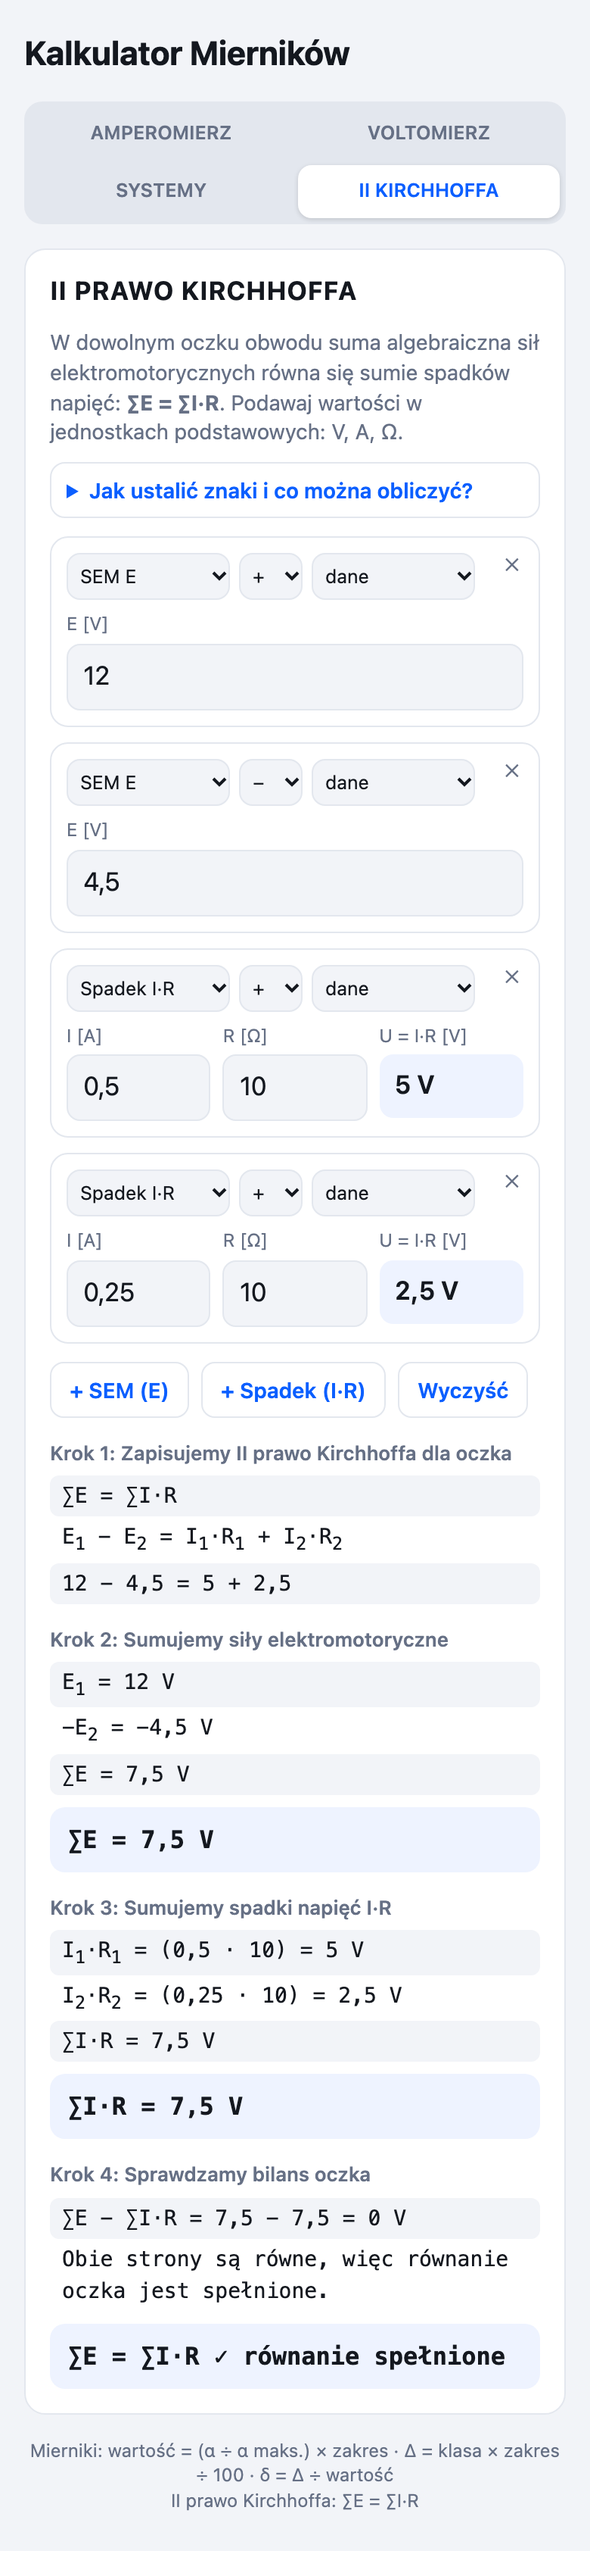
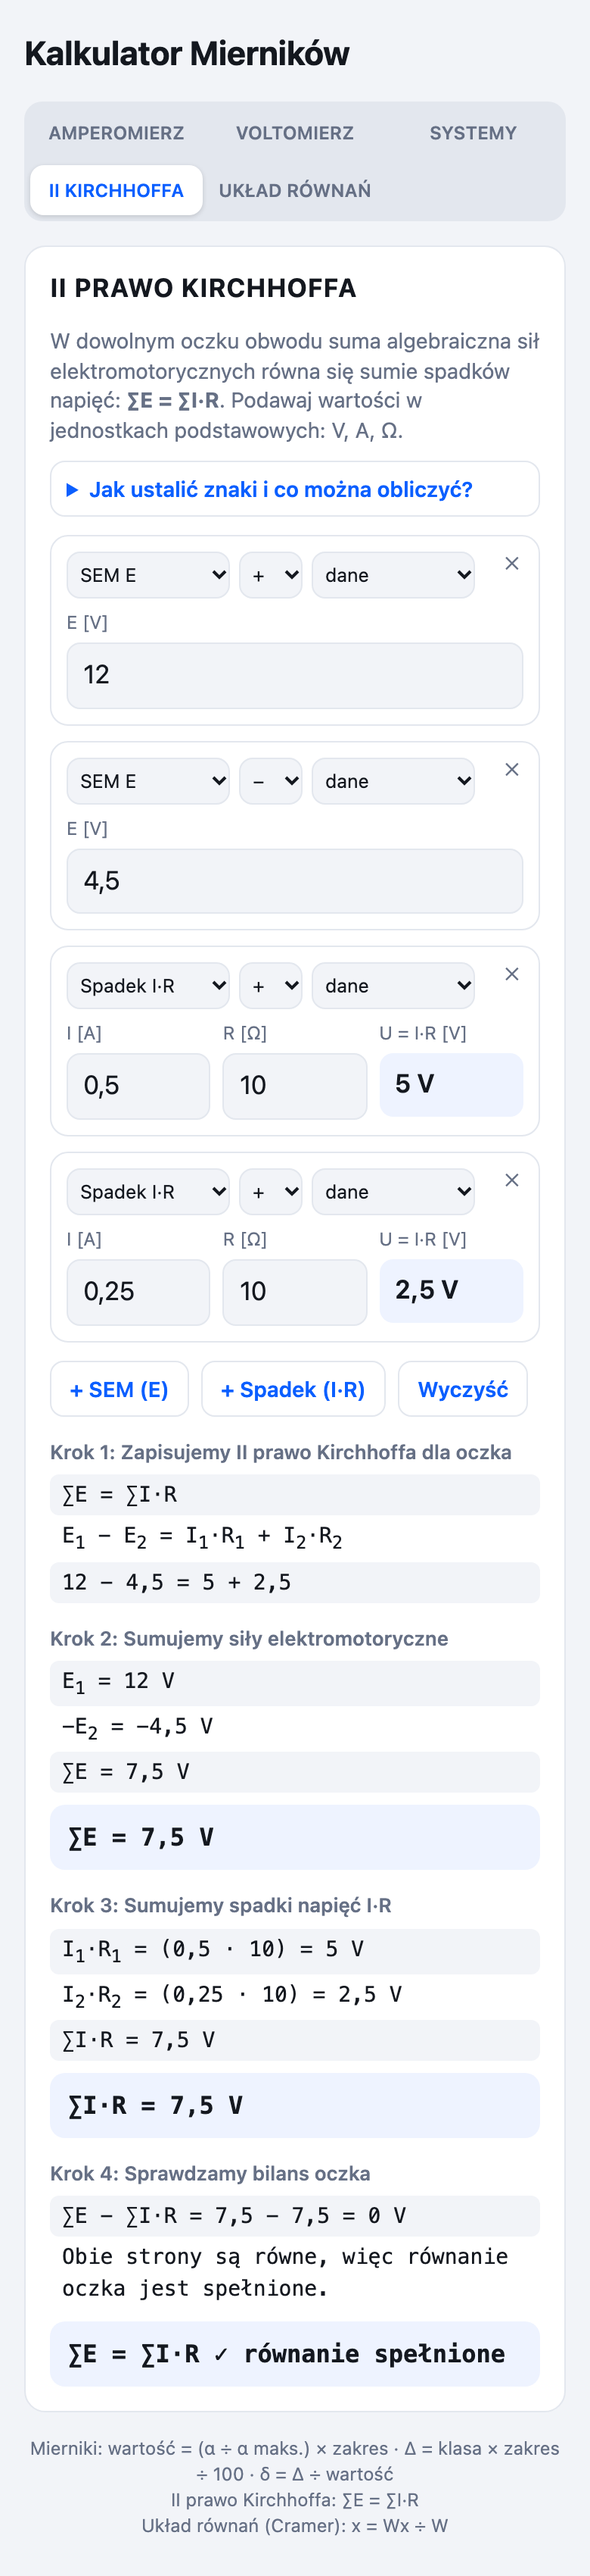
Zakładka UKŁAD RÓWNAŃ (metoda Cramera) + README
Nowa zakładka rozwiązuje układ 2 lub 3 równań liniowych metodą
wyznaczników, krok po kroku:
- macierz współczynników z prawymi stronami, puste pole = 0,
- własne nazwy niewiadomych (np. I1, I2, I3) używane w zapisie i wyniku,
- wyznacznik główny i wyznaczniki Wx, Wy, Wz (reguła Sarrusa),
  dzielenie wyznaczników oraz sprawdzenie przez podstawienie,
- przypadek W = 0 opisany jako układ nieoznaczony albo sprzeczny.

Poprawki przy okazji:
- rozwinięcie wyznacznika bierze ujemne czynniki w nawias
  (0,5·(−0,5) zamiast 0,5·−0,5),
- zapis macierzy zachowuje wyrównanie kolumn (white-space:pre-wrap),
- pasek zakładek dopasowuje liczbę kolumn do szerokości (auto-fit),
- domyślna klasa dokładności pokazywana jako 0,5, nie 0.5,
- README: opis nowej zakładki, tok pracy Kirchhoff -> Cramer, zrzut,
- cache service workera podbity do mierniki-v8.

diff --git a/index.html b/index.html
@@ -3,7 +3,7 @@
 <head>
 <meta charset="utf-8">
 <title>Kalkulator Mierników</title>
-<meta name="description" content="Kalkulator mierników: wskazania amperomierza i woltomierza, niepewności pomiarowe, systemy liczbowe i II prawo Kirchhoffa.">
+<meta name="description" content="Kalkulator mierników: wskazania amperomierza i woltomierza, niepewności pomiarowe, systemy liczbowe, II prawo Kirchhoffa i układy równań.">
 <meta name="viewport" content="width=device-width,initial-scale=1,viewport-fit=cover">
 <meta name="theme-color" content="#0b5fff">
 <meta name="apple-mobile-web-app-capable" content="yes">
@@ -36,9 +36,8 @@ td.out{font-variant-numeric:tabular-nums;text-align:right;font-weight:600;backgr
 th:last-child{text-align:right}
 .avg{display:flex;justify-content:space-between;margin-top:10px;padding:12px;border-radius:10px;background:var(--out);font-weight:700}
 button{margin-top:10px;font:inherit;font-size:14px;color:var(--acc);background:none;border:0;padding:6px 0}
-.tabs{display:grid;grid-template-columns:repeat(var(--n,3),minmax(0,1fr));gap:4px;padding:4px;margin-bottom:16px;background:var(--line);border-radius:12px}
-.tabs button{margin:0;padding:10px 2px;font-weight:600;font-size:12.5px;line-height:1.15;color:var(--mut);border-radius:9px;overflow-wrap:anywhere}
-@media(max-width:430px){.tabs{grid-template-columns:repeat(2,minmax(0,1fr))}}
+.tabs{display:grid;grid-template-columns:repeat(auto-fit,minmax(92px,1fr));gap:4px;padding:4px;margin-bottom:16px;background:var(--line);border-radius:12px}
+.tabs button{margin:0;padding:10px 2px;font-weight:600;font-size:12px;line-height:1.15;color:var(--mut);border-radius:9px;overflow-wrap:anywhere}
 .tabs button[aria-selected=true]{background:var(--card);color:var(--acc);box-shadow:0 1px 3px rgba(0,0,0,.15)}
 .card[hidden]{display:none}
 .hint{display:flex;gap:10px;align-items:center;justify-content:space-between;background:var(--out);color:var(--fg);border:1px solid var(--line);border-radius:12px;padding:10px 12px;margin-bottom:12px;font-size:14px}
@@ -73,6 +72,13 @@ details.kn ul{margin:4px 0;padding-left:18px;color:var(--mut);font-size:13.5px}
 details.kn li{margin-bottom:4px}
 .warn{color:#b54708;font-size:13.5px;margin:6px 0}
 @media(prefers-color-scheme:dark){.warn{color:#fdb022}}
+.mx{display:grid;gap:6px;align-items:center;margin-bottom:12px}
+.mx input{font-size:15px;padding:7px 4px;text-align:center;font-variant-numeric:tabular-nums}
+.mx .ml{font-size:12px;color:var(--mut)}
+.mx .me{font-size:15px;color:var(--mut);text-align:center}
+.mx .nm{background:none;border:0;border-bottom:1px solid var(--line);border-radius:0;color:var(--acc);font-weight:700;font-size:14px;padding:2px 0}
+.mx .rhs{background:var(--out)}
+.ln.pre{white-space:pre-wrap}
 footer{color:var(--mut);font-size:12px;text-align:center}
 </style>
 </head>
@@ -83,7 +89,7 @@ footer{color:var(--mut);font-size:12px;text-align:center}
 <div class="hint" id="inst" hidden><span>Zainstaluj aplikację na tym urządzeniu.</span><button type="button" id="instgo" class="go">Zainstaluj</button></div>
 <div class="tabs" id="tabs" role="tablist"></div>
 <div id="app"></div>
-<footer>Mierniki: wartość = (α ÷ α maks.) × zakres · Δ = klasa × zakres ÷ 100 · δ = Δ ÷ wartość<br>II prawo Kirchhoffa: ∑E = ∑I·R</footer>
+<footer>Mierniki: wartość = (α ÷ α maks.) × zakres · Δ = klasa × zakres ÷ 100 · δ = Δ ÷ wartość<br>II prawo Kirchhoffa: ∑E = ∑I·R<br>Układ równań (Cramer): x = Wx ÷ W</footer>
 </main>
 <script>
 const METERS=[
@@ -98,26 +104,27 @@ METERS.forEach(m=>{state[m.id]=state[m.id]||{range:m.range,max:m.max,unit:m.unit
 const save=()=>{try{localStorage.setItem(KEY,JSON.stringify(state))}catch(e){}};
 const num=s=>{const n=parseFloat(String(s).replace(",","."));return isFinite(n)?n:null};
 const fmt=n=>n===null?"–":(Math.round(n*1e6)/1e6).toString().replace(".",",");
+const fv=n=>fmt(n).replace(/^-/,"−");
 const escA=s=>String(s).replace(/[&<>"]/g,c=>({"&":"&amp;","<":"&lt;",">":"&gt;",'"':"&quot;"}[c]));
+const valV=s=>typeof s==="number"?fv(s):escA(s);
 const app=document.getElementById("app"),tabs=document.getElementById("tabs");
 const cards={};
-const ALL=[...METERS,{id:"n",title:"SYSTEMY"},{id:"k",title:"II PRAWO KIRCHHOFFA",tab:"II KIRCHHOFFA"}];
+const ALL=[...METERS,{id:"n",title:"SYSTEMY"},{id:"k",title:"II PRAWO KIRCHHOFFA",tab:"II KIRCHHOFFA"},{id:"r",title:"UKŁAD RÓWNAŃ"}];
 function show(id){
  state.tab=id;
  ALL.forEach(m=>{cards[m.id].hidden=m.id!==id;tabs.querySelector(`[data-t=${m.id}]`).setAttribute("aria-selected",m.id===id)});
  save();
 }
-tabs.style.setProperty("--n",ALL.length);
 ALL.forEach(m=>{const b=document.createElement("button");b.type="button";b.dataset.t=m.id;b.setAttribute("role","tab");b.textContent=m.tab||m.title;b.onclick=()=>show(m.id);tabs.appendChild(b)});
 METERS.forEach(m=>{
  const s=state[m.id], u=()=>s.unit;
  const card=document.createElement("section");card.className="card";
  card.innerHTML=`<h2>${m.title}</h2>
  <div class="row">
-  <div><label>Max zakres przyrządu</label><input data-k=range inputmode=decimal value="${escA(s.range)}"></div>
+  <div><label>Max zakres przyrządu</label><input data-k=range inputmode=decimal value="${valV(s.range)}"></div>
   <div><label>Jednostka</label><select data-k=unit>${m.units.map(x=>`<option${x==s.unit?" selected":""}>${x}</option>`).join("")}</select></div>
-  <div><label>Działki maks. (skala)</label><input data-k=max inputmode=decimal value="${escA(s.max)}"></div>
-  <div><label>Klasa dokładności</label><input data-k=cls inputmode=decimal value="${escA(s.cls)}"></div>
+  <div><label>Działki maks. (skala)</label><input data-k=max inputmode=decimal value="${valV(s.max)}"></div>
+  <div><label>Klasa dokładności</label><input data-k=cls inputmode=decimal value="${valV(s.cls)}"></div>
   <div><label>Stała C</label><input data-c readonly></div>
   <div><label>Błąd bezwzgl. Δ (±)</label><input data-d readonly></div>
  </div>
@@ -302,7 +309,6 @@ METERS.forEach(m=>{
  const L=a=>a.map(x=>`<div class="ln">${x}</div>`).join("");
  const STP=(t,a,r)=>`<div class="step"><h3>${t}</h3>${L(a)}${r?`<div class="res">${r}</div>`:""}</div>`;
  const SUB=n=>`<sub>${n}</sub>`;
- const fv=v=>fmt(v).replace(/^-/,"−");
  const par=v=>v<0?`(${fv(v)})`:fv(v);
  const side=(arr,disp)=>arr.map((t,i)=>{const d=disp?disp[i]:t.lbl;return i?(t.sg<0?" − ":" + ")+d:(t.sg<0?"−":"")+d}).join("");
  const tol=(a,b)=>1e-9*Math.max(1,Math.abs(a),Math.abs(b));
@@ -407,6 +413,141 @@ METERS.forEach(m=>{
  sec.querySelector("#kaddE").onclick=()=>{st.rows.push(NEWROW("E"));build()};
  sec.querySelector("#kaddU").onclick=()=>{st.rows.push(NEWROW("U"));build()};
  sec.querySelector("#kclr").onclick=()=>{RESET();build()};
+ build();
+})();
+/* ---------- UKŁAD RÓWNAŃ (metoda Cramera) ---------- */
+(function(){
+ const sec=document.createElement("section");sec.className="card";
+ const st=state.r=state.r||{};
+ const DEFN=["x","y","z"];
+ st.n=st.n===3?3:2;
+ if(!Array.isArray(st.names)||st.names.length!==3)st.names=DEFN.slice();
+ st.names=st.names.map((v,i)=>v==null?DEFN[i]:String(v));
+ const oldC=Array.isArray(st.c)?st.c:[];
+ st.c=[0,1,2].map(i=>{const src=Array.isArray(oldC[i])?oldC[i]:[];return [0,1,2,3].map(j=>src[j]==null?"":String(src[j]))});
+ sec.innerHTML=`<h2>UKŁAD RÓWNAŃ</h2>
+ <p class="c">Rozwiązywanie układu 2 lub 3 równań liniowych <b>metodą Cramera</b> (wyznaczniki) — krok po kroku. Niewiadome możesz nazwać, np. <b>I1</b>, <b>I2</b>, <b>I3</b>.</p>
+ <div class="row"><div style="grid-column:1/-1"><label>Liczba równań i niewiadomych</label><select id="rn"><option value="2">2 równania</option><option value="3">3 równania</option></select></div></div>
+ <div id="rmx"></div>
+ <div class="kbtns"><button type="button" id="rclr">Wyczyść</button></div>
+ <div id="rout"></div>`;
+ app.appendChild(sec);cards.r=sec;
+ const mx=sec.querySelector("#rmx"),rout=sec.querySelector("#rout"),sel=sec.querySelector("#rn");
+ const L=a=>a.map(x=>typeof x==="string"?`<div class="ln">${x}</div>`:`<div class="ln pre">${x.pre}</div>`).join("");
+ const STP=(t,a,r)=>`<div class="step"><h3>${t}</h3>${L(a)}${r?`<div class="res">${r}</div>`:""}</div>`;
+ const nm=()=>{const o=[];for(let j=0;j<st.n;j++)o.push((st.names[j]||"").trim()||DEFN[j]);return o};
+ const series=it=>{let s="";it.forEach((x,i)=>{s+=i===0?(x.neg?"−"+x.body:x.body):(x.neg?" − "+x.body:" + "+x.body)});return s===""?"0":s};
+ function build(){
+  const n=st.n;
+  let h=`<div class="mx" style="grid-template-columns:auto repeat(${n},minmax(0,1fr)) auto minmax(0,1fr)">`;
+  h+=`<div></div>`;
+  for(let j=0;j<n;j++)h+=`<input class="nm" data-nm="${j}" value="${escA(st.names[j])}" aria-label="nazwa niewiadomej ${j+1}">`;
+  h+=`<div class="me">=</div><div></div>`;
+  for(let i=0;i<n;i++){
+   h+=`<div class="ml">R${i+1}</div>`;
+   for(let j=0;j<n;j++)h+=`<input data-c="${i},${j}" inputmode="decimal" aria-label="współczynnik w równaniu ${i+1}" value="${escA(st.c[i][j])}">`;
+   h+=`<div class="me">=</div><input class="rhs" data-c="${i},3" inputmode="decimal" aria-label="prawa strona równania ${i+1}" value="${escA(st.c[i][3])}">`;
+  }
+  mx.innerHTML=h+`</div>`;
+  calc();
+ }
+ mx.addEventListener("input",e=>{
+  const d=e.target.dataset;
+  if(d.nm!==undefined)st.names[+d.nm]=e.target.value;
+  else if(d.c){const p=d.c.split(",");st.c[+p[0]][+p[1]]=e.target.value}
+  else return;
+  calc();
+ });
+ sel.onchange=()=>{st.n=+sel.value;build()};
+ sec.querySelector("#rclr").onclick=()=>{st.c=[0,1,2].map(()=>["","","",""]);build()};
+ function calc(){
+  save();
+  const n=st.n,nazwy=nm(),bad=[],A=[],B=[];let any=false;
+  for(let i=0;i<n;i++){
+   const row=[];
+   for(let j=0;j<n;j++){
+    const raw=(st.c[i][j]||"").trim();
+    if(raw)any=true;
+    if(raw===""){row.push(0);continue}
+    const v=num(raw);
+    if(v===null){bad.push(`Równanie ${i+1}: „${escA(raw)}” nie jest poprawną liczbą (kolumna ${escA(nazwy[j])}).`);row.push(0)}
+    else row.push(v);
+   }
+   const rb=(st.c[i][3]||"").trim();let b=0;
+   if(rb){any=true;const v=num(rb);if(v===null)bad.push(`Równanie ${i+1}: „${escA(rb)}” nie jest poprawną liczbą (prawa strona).`);else b=v}
+   A.push(row);B.push(b);
+  }
+  let h=bad.map(x=>`<div class="err">${x}</div>`).join("");
+  if(bad.length){rout.innerHTML=h;return}
+  if(!any){rout.innerHTML=h+`<div class="c" style="margin-top:12px">Wpisz współczynniki przy niewiadomych i prawe strony równań.</div>`;return}
+  const eq=i=>{
+   let s="";
+   for(let j=0;j<n;j++){
+    const v=A[i][j];if(v===0)continue;
+    const a=Math.abs(v),t=(a===1?"":fv(a))+escA(nazwy[j]);
+    s+=s===""?(v<0?"−":"")+t:(v<0?" − ":" + ")+t;
+   }
+   return (s===""?"0":s)+" = "+fv(B[i]);
+  };
+  const d2=m=>m[0][0]*m[1][1]-m[0][1]*m[1][0];
+  const d3=m=>m[0][0]*m[1][1]*m[2][2]+m[0][1]*m[1][2]*m[2][0]+m[0][2]*m[1][0]*m[2][1]
+              -m[0][2]*m[1][1]*m[2][0]-m[0][0]*m[1][2]*m[2][1]-m[0][1]*m[1][0]*m[2][2];
+  const terms=m=>n===2
+   ?[[1,[m[0][0],m[1][1]]],[-1,[m[0][1],m[1][0]]]]
+   :[[1,[m[0][0],m[1][1],m[2][2]]],[1,[m[0][1],m[1][2],m[2][0]]],[1,[m[0][2],m[1][0],m[2][1]]],
+     [-1,[m[0][2],m[1][1],m[2][0]]],[-1,[m[0][0],m[1][2],m[2][1]]],[-1,[m[0][1],m[1][0],m[2][2]]]];
+  const matLines=(m,label)=>{
+   const w=[];
+   for(let j=0;j<n;j++)w.push(Math.max.apply(null,m.map(r=>fv(r[j]).length)));
+   return m.map((r,i)=>(i===0?label+" = ":" ".repeat(label.length+3))+"| "+r.map((v,j)=>fv(v).padStart(w[j])).join("  ")+" |");
+  };
+  const detLines=(m,label)=>{
+   const ts=terms(m),prods=ts.map(t=>t[0]*t[1].reduce((a,b)=>a*b,1));
+   const sum=prods.reduce((a,b)=>a+b,0);
+   const f1=series(ts.map(t=>({neg:t[0]<0,body:t[1].map(v=>v<0?"("+fv(v)+")":fv(v)).join("·")})));
+   const f2=series(prods.map(p=>({neg:p<0,body:fv(Math.abs(p))})));
+   return {lines:[{pre:matLines(m,label).join("\n")},`${label} = ${f1}`,`${label} = ${f2}`,`${label} = ${fv(sum)}`],value:sum};
+  };
+  let sn=0;const K=()=>`Krok ${++sn}: `;
+  h+=STP(K()+"Zapisujemy układ równań",Array.from({length:n},(_,i)=>eq(i)));
+  const W=detLines(A,"W");
+  h+=STP(K()+"Liczymy wyznacznik główny W",W.lines,`W = ${fv(W.value)}`);
+  let scale=1;
+  A.forEach(r=>r.forEach(v=>{if(Math.abs(v)>scale)scale=Math.abs(v)}));
+  if(Math.abs(W.value)<=1e-10*Math.max(1,Math.pow(scale,n))){
+   h+=`<div class="err">Wyznacznik główny W = 0, więc układ nie ma jednoznacznego rozwiązania — jest nieoznaczony albo sprzeczny. Metoda Cramera nie daje wtedy wyniku; sprawdź równania.</div>`;
+   rout.innerHTML=h;return;
+  }
+  const Wk=[],xs=[],lines=[];
+  for(let k=0;k<n;k++){
+   const M=A.map((row,i)=>row.map((v,j)=>j===k?B[i]:v));
+   const d=detLines(M,"W"+escA(nazwy[k]));
+   Wk.push(d.value);xs.push(d.value/W.value);lines.push(...d.lines);
+  }
+  h+=STP(K()+"Liczymy wyznaczniki dla każdej niewiadomej",[
+   "W każdym z nich kolumnę danej niewiadomej zastępujemy prawymi stronami równań.",
+   ...lines
+  ]);
+  h+=STP(K()+"Dzielimy wyznaczniki — otrzymujemy rozwiązanie",
+   xs.map((x,k)=>`${escA(nazwy[k])} = W${escA(nazwy[k])} ÷ W = ${fv(Wk[k])} ÷ ${fv(W.value)} = ${fv(x)}`),
+   xs.map((x,k)=>`${escA(nazwy[k])} = ${fv(x)}`).join("<br>"));
+  const chk=[];let ok=true;
+  for(let i=0;i<n;i++){
+   const it=[];let left=0;
+   for(let j=0;j<n;j++){
+    const a=A[i][j];if(a===0)continue;
+    left+=a*xs[j];
+    it.push({neg:(a<0)!==(xs[j]<0),body:`${fv(Math.abs(a))}·${xs[j]<0?"("+fv(xs[j])+")":fv(xs[j])}`});
+   }
+   const good=Math.abs(left-B[i])<=1e-9*Math.max(1,Math.abs(B[i]));
+   if(!good)ok=false;
+   chk.push(`R${i+1}: ${series(it)} = ${fv(left)}   (prawa: ${fv(B[i])}) ${good?"✓":"✗"}`);
+  }
+  h+=STP(K()+"Sprawdzamy rozwiązanie, podstawiając je do równań",chk,
+   ok?"Rozwiązanie spełnia wszystkie równania ✓":"Uwaga: któreś równanie nie zgadza się — sprawdź dane.");
+  rout.innerHTML=h;
+ }
+ sel.value=String(st.n);
  build();
 })();
 (function(){

diff --git a/sw.js b/sw.js
@@ -1,4 +1,4 @@
-const CACHE="mierniki-v7";
+const CACHE="mierniki-v8";
 const FILES=["./","index.html","manifest.webmanifest","icon-180.png","icon-192.png","icon-512.png"];
 self.addEventListener("install",e=>{e.waitUntil(caches.open(CACHE).then(c=>c.addAll(FILES)));self.skipWaiting()});
 self.addEventListener("activate",e=>{e.waitUntil(caches.keys().then(k=>Promise.all(k.filter(x=>x!==CACHE).map(x=>caches.delete(x)))).then(()=>self.clients.claim()))});

diff --git a/README.md b/README.md
@@ -2,7 +2,8 @@
 
 Prosta aplikacja webowa (PWA) do obliczeń na lekcjach elektrotechniki i miernictwa:
 wskazania **amperomierza** i **woltomierza**, **niepewności pomiarowe**, przeliczanie
-**systemów liczbowych** oraz **II prawo Kirchhoffa** — wszystko z rozwiązaniem krok po kroku.
+**systemów liczbowych**, **II prawo Kirchhoffa** oraz rozwiązywanie **układów równań**
+metodą Cramera — wszystko z rozwiązaniem krok po kroku.
 
 ## 🔗 Aplikacja online
 
@@ -79,6 +80,35 @@ z kierunkiem prądu i SEM:
 Wynik ujemny nie jest błędem — oznacza, że przy przyjętym kierunku obiegu dana wielkość ma
 zwrot przeciwny do założonego. Aplikacja wypisuje wtedy odpowiednie ostrzeżenie.
 
+### 4. Układ równań — metoda Cramera
+
+Do zadań z praw Kirchhoffa potrzebny jest jeszcze **układ równań**. Ta zakładka rozwiązuje
+układ **2 lub 3 równań liniowych** metodą wyznaczników (Cramera), pokazując cały tok obliczeń:
+
+* wpisujesz współczynniki w macierzy — puste pole oznacza `0`,
+* niewiadome możesz **nazwać** (np. `I1`, `I2`, `I3`) — nazwy pojawią się w zapisie i wyniku,
+* program liczy wyznacznik główny `W` (reguła Sarrusa), wyznaczniki `Wx`, `Wy`, `Wz`,
+  dzieli je i **sprawdza wynik**, podstawiając go z powrotem do równań,
+* gdy `W = 0`, aplikacja wyjaśnia, że układ jest nieoznaczony albo sprzeczny (metoda Cramera
+  nie daje wtedy wyniku).
+
+![Układ równań metodą Cramera](screenshot-rownania.png)
+
+Wzory, których używa:
+
+| Krok | Wzór |
+|---|---|
+| Wyznacznik główny | `W = det(A)` (dla 3×3 reguła Sarrusa) |
+| Wyznacznik niewiadomej | `Wx = det(A z kolumną x zastąpioną prawymi stronami)` |
+| Rozwiązanie | `x = Wx / W` |
+
+### Jak to połączyć w zadaniu z praw Kirchhoffa
+
+1. W zakładce **II KIRCHHOFFA** zapisz równania kolejnych oczek (`∑E = ∑I·R`) i sprawdź znaki.
+2. Równania prądowe dla węzłów (`I1 = I2 + I3`) zapisz od razu w postaci współczynników.
+3. Wszystkie równania wpisz w zakładce **UKŁAD RÓWNAŃ**, nazwij niewiadome `I1`, `I2`, `I3`
+   i odczytaj prądy wraz z pełnym rozwiązaniem.
+
 ### Zapamiętywanie danych
 
 Każda zakładka zapisuje swoje dane w przeglądarce (`localStorage`), więc po zamknięciu
@@ -110,7 +140,7 @@ python3 -m http.server 8000
 | `manifest.webmanifest` | metadane PWA: nazwa, ikony, tryb `standalone` |
 | `icon-192.png`, `icon-512.png` | ikony aplikacji (512 także jako `maskable`) |
 | `icon-180.png` | ikona dla iOS (`apple-touch-icon`) |
-| `screenshot-*.png` | zrzuty ekranu użyte w tym README |
+| `screenshot-*.png` | zrzuty ekranu użyte w tym README (mierniki, Kirchhoff, układ równań) |
 | `PODZAIŁKI_ET.xlsx` | arkusz, który był pierwowzorem zakładki amperomierza/woltomierza |
 
 ## Technikalia
